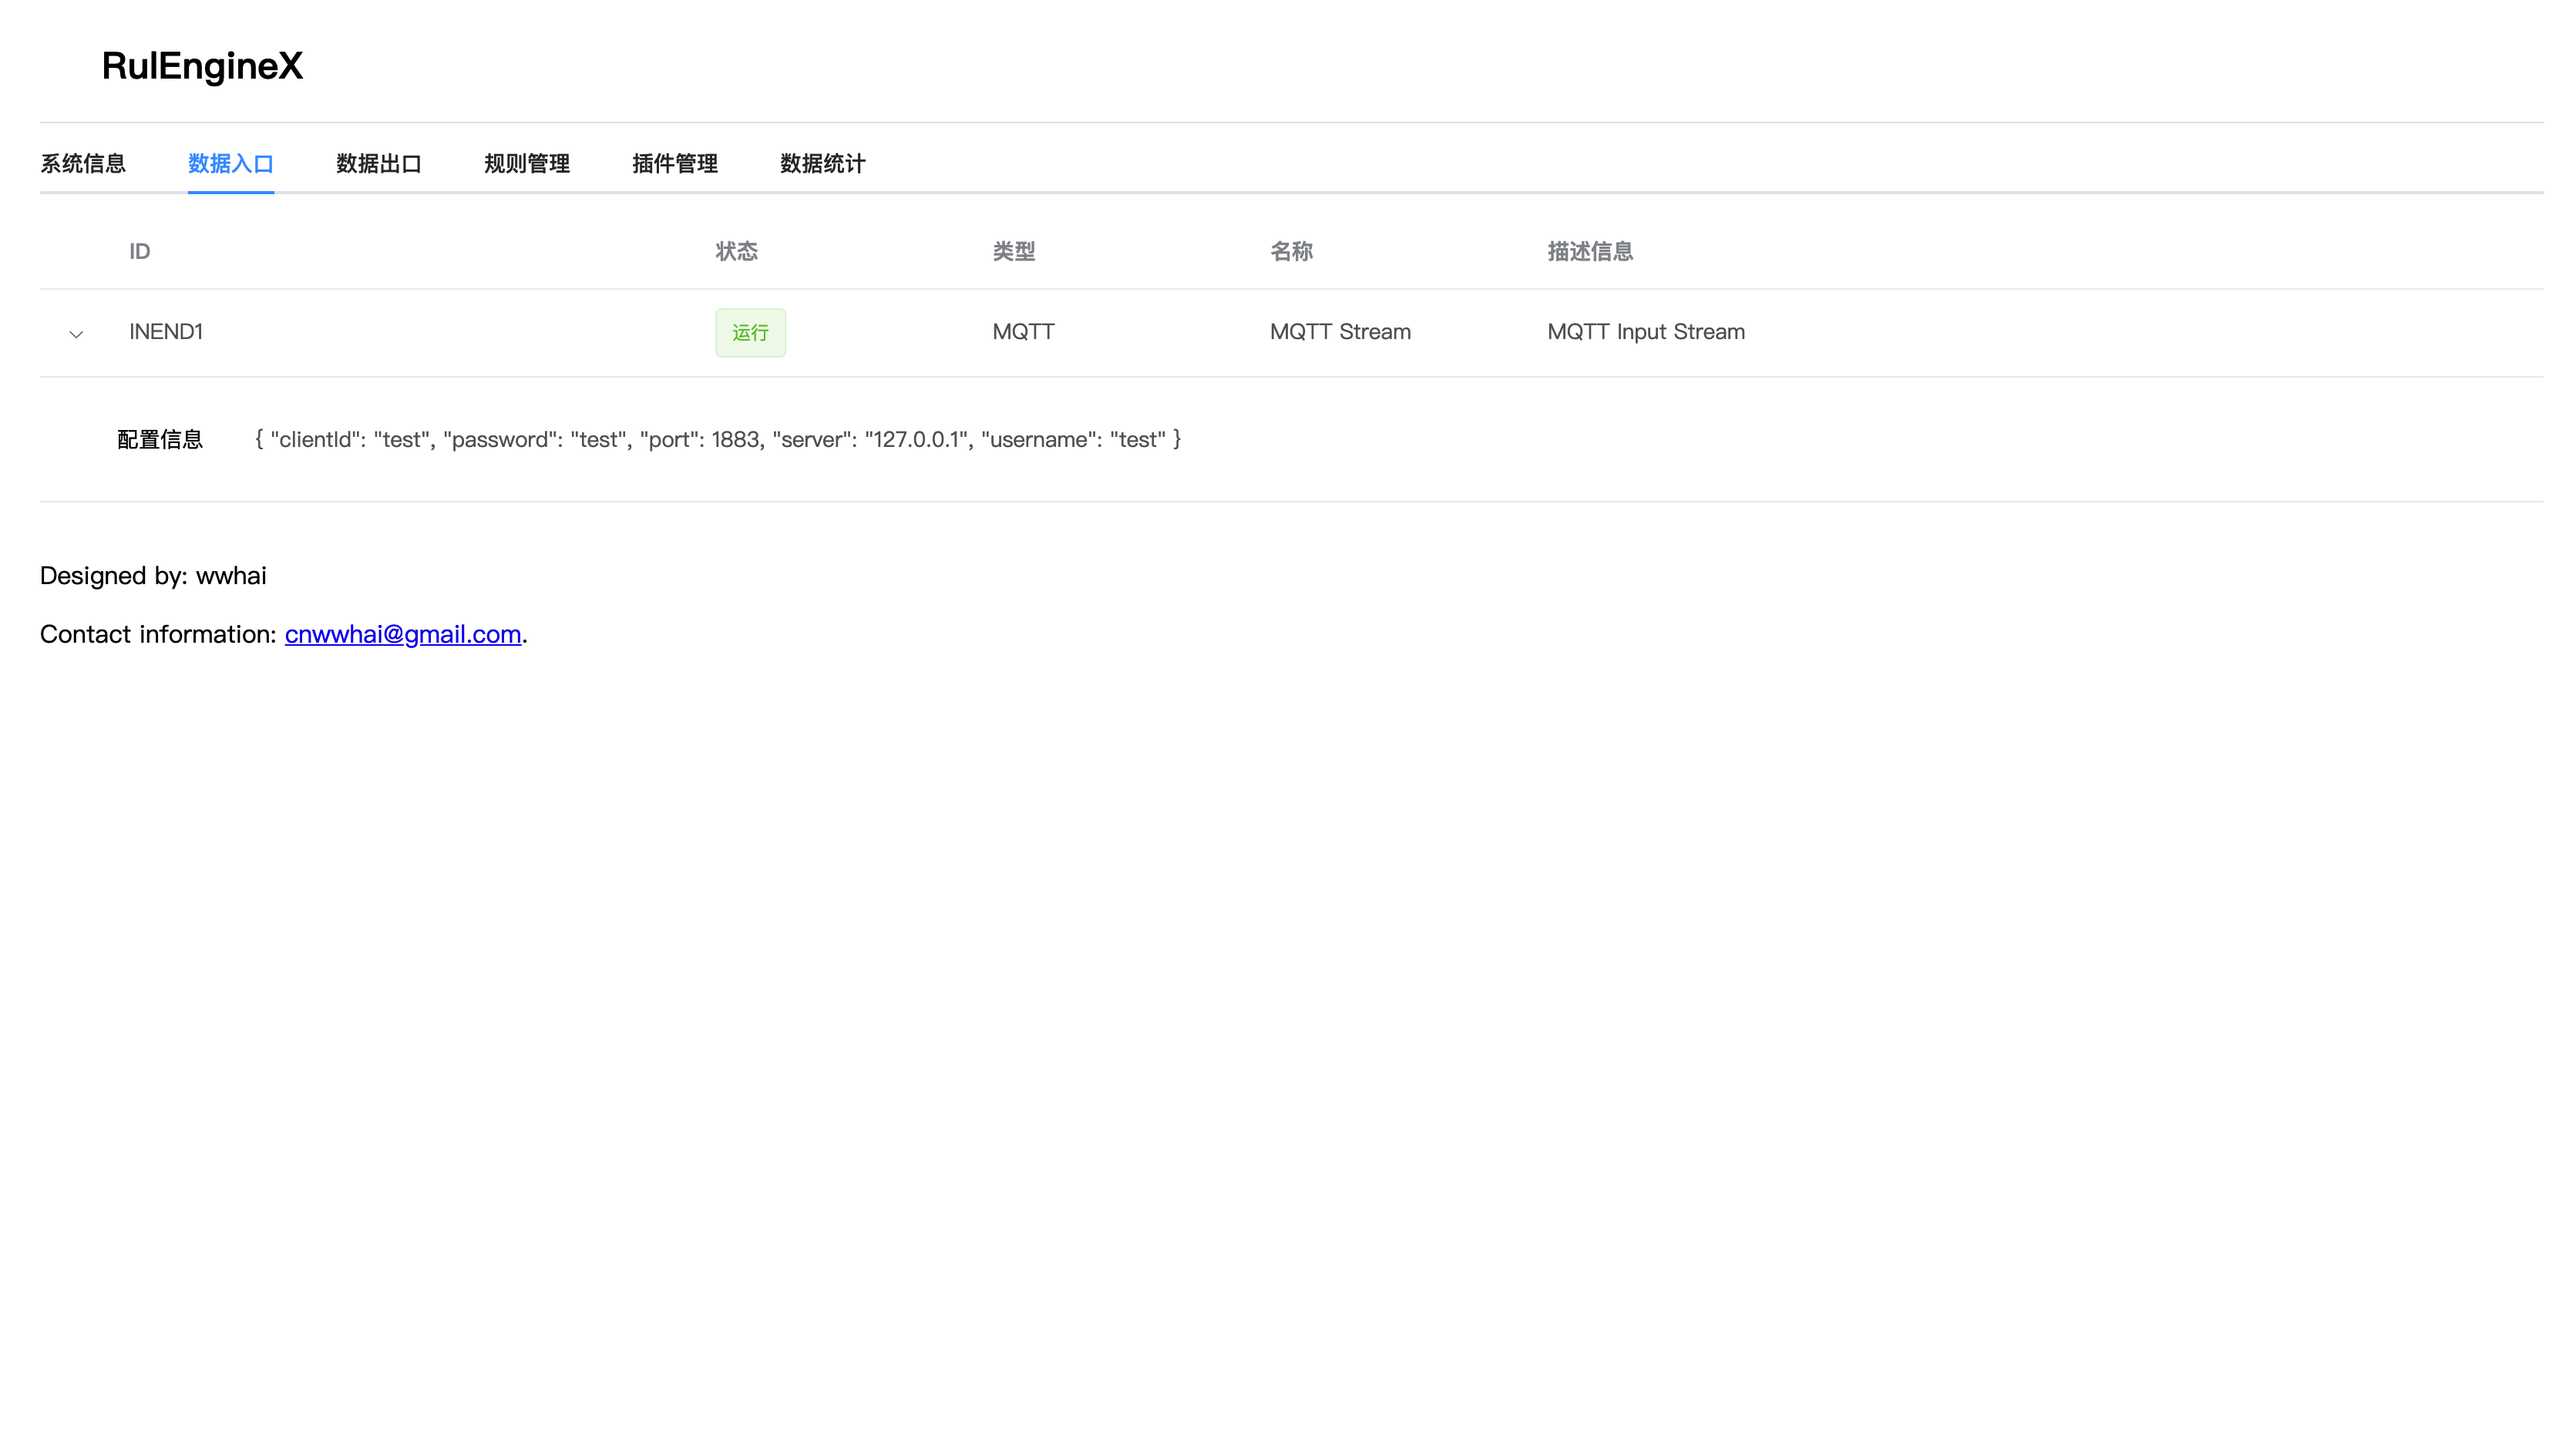
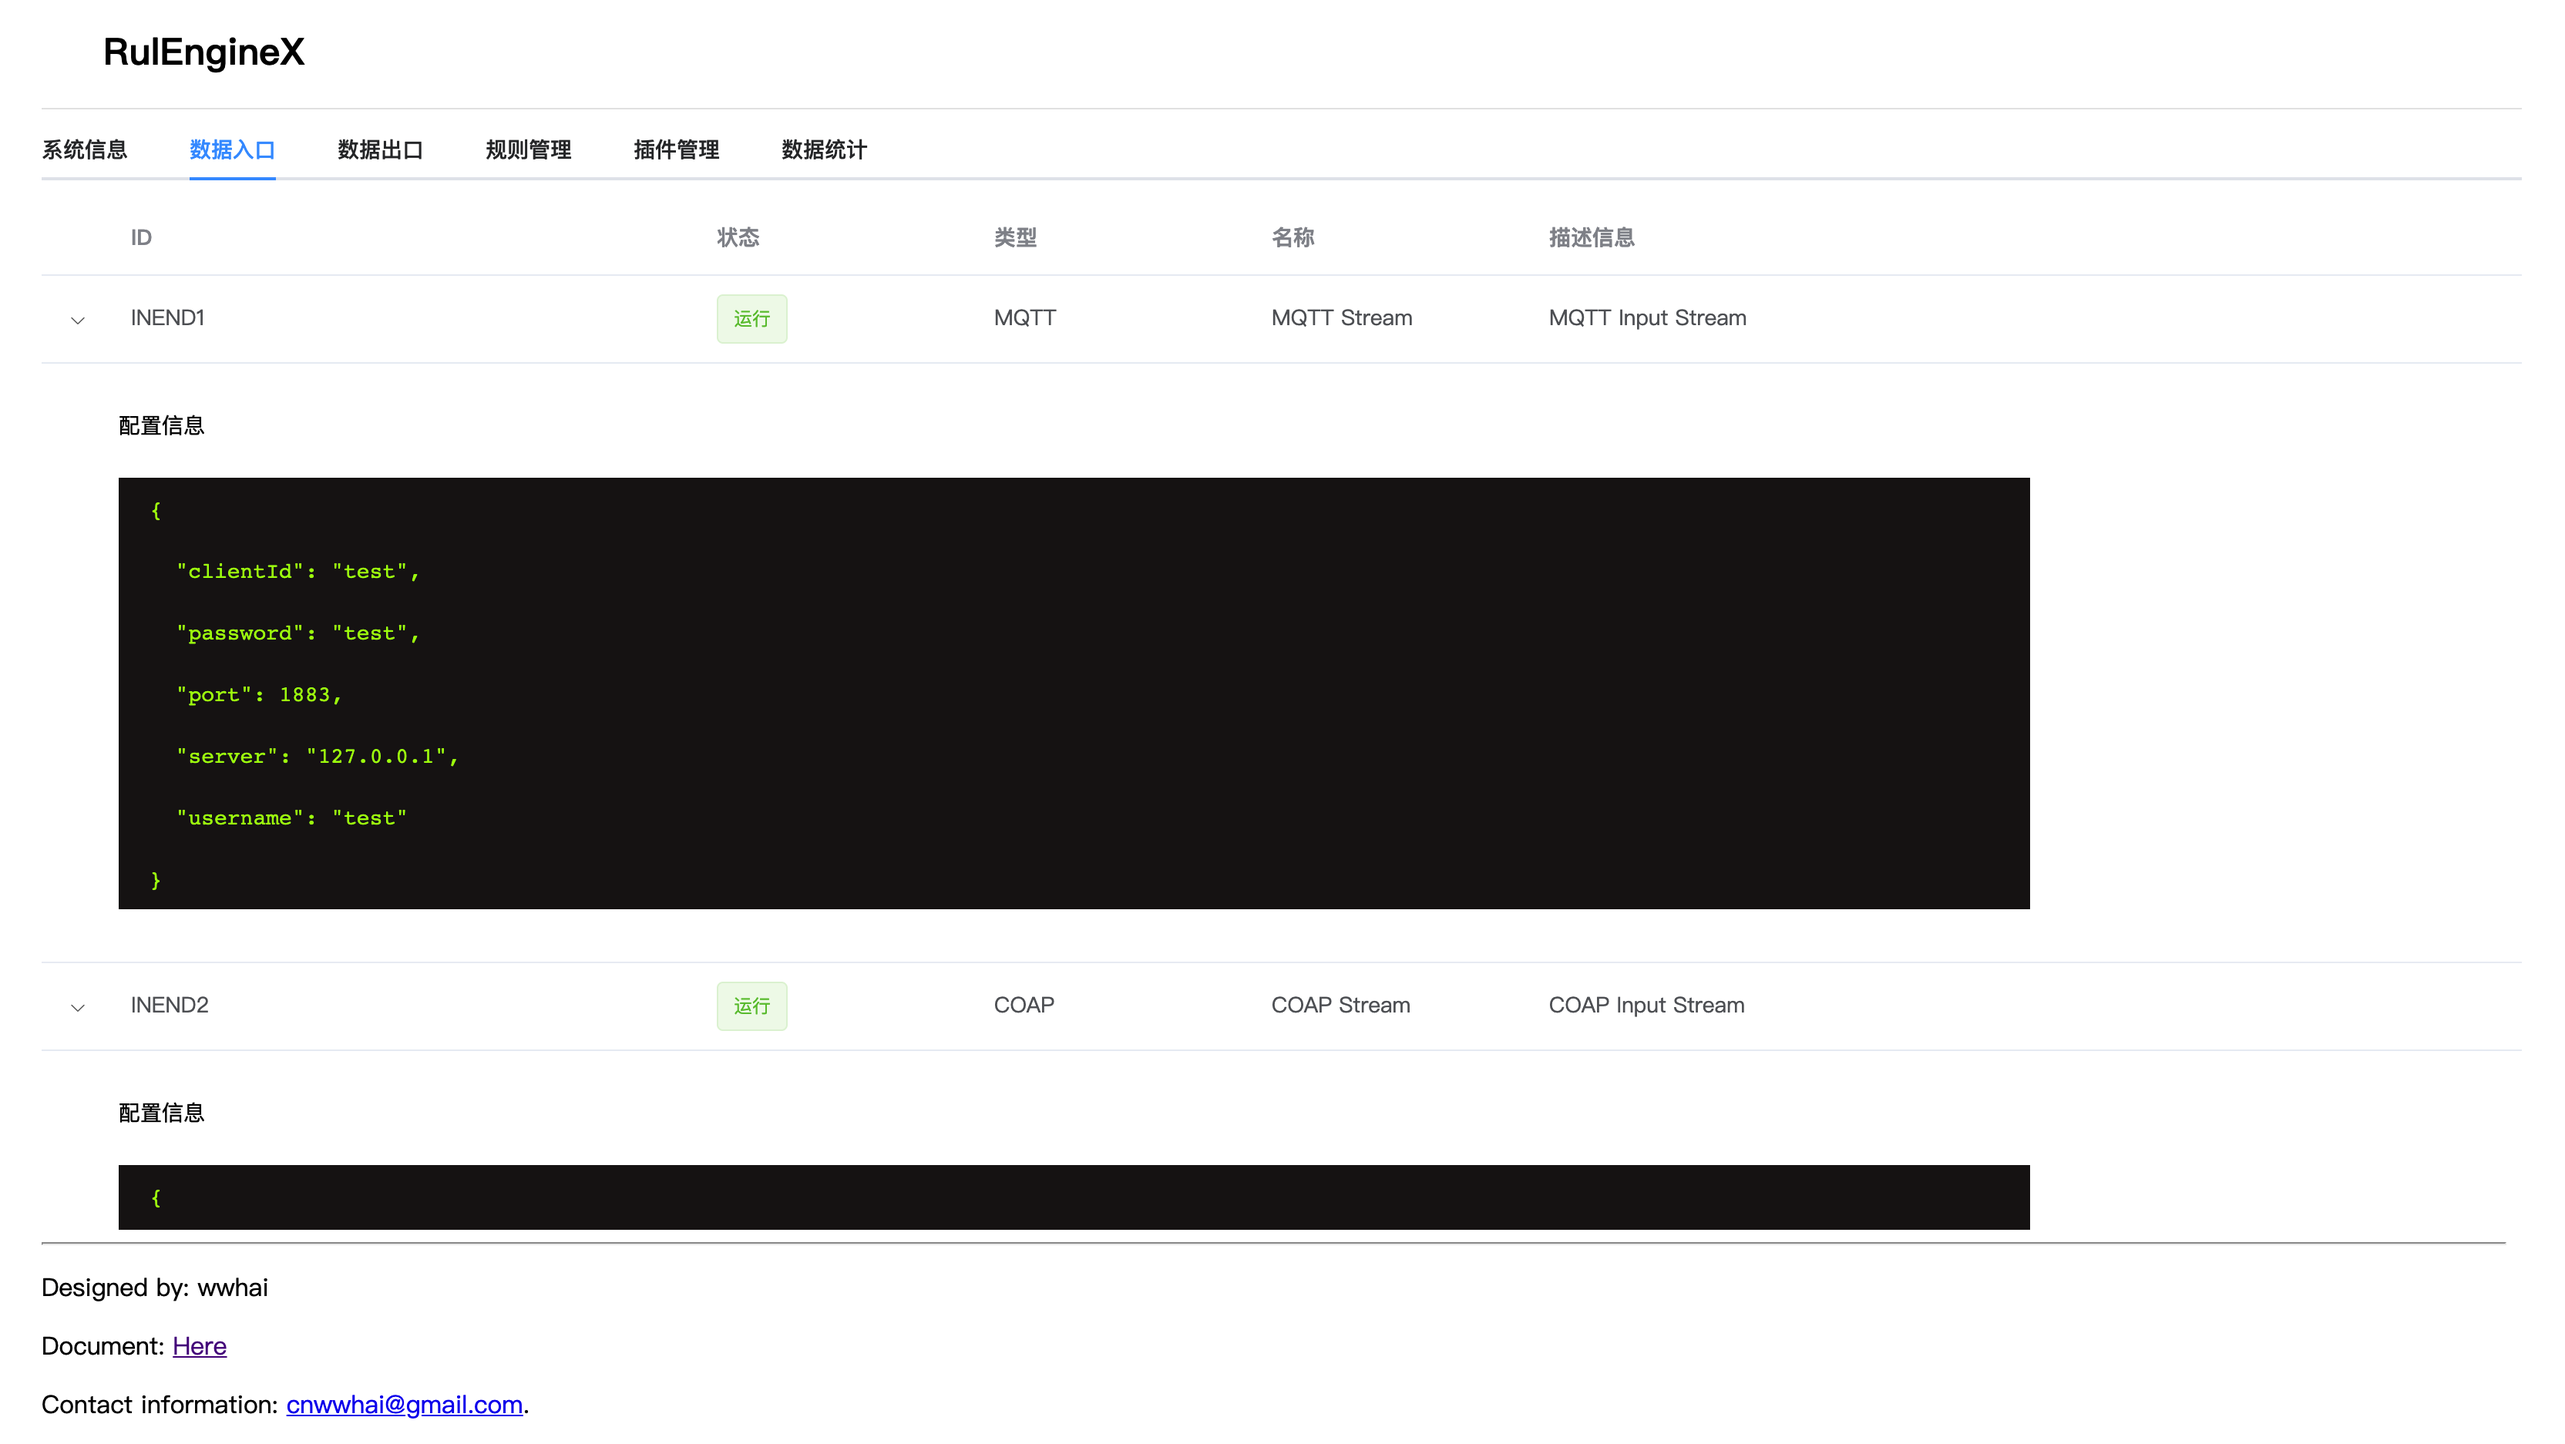
更新文档

diff --git a/source/docs/dev.md b/source/docs/dev.md
@@ -5,11 +5,122 @@ support: false
 
 # 开发指南
 ## 源码导读
+```
+-> % tree
+.
+├── Dockerfile
+├── Makefile
+├── clocs.md
+├── conf
+│   └── banner.txt
+├── go.mod
+├── go.sum
+├── main.go
+├── pic
+│   └── 1.png
+├── plugin
+│   ├── http_api_server.go
+│   └── templates
+│       └── dashboard.html
+├── ppt.md
+├── readme.md
+├── statistics
+│   └── statistic.go
+├── test
+│   ├── calllua_test.go
+│   ├── input_data_select_test.go
+│   ├── lua
+│   │   ├── callback.lua
+│   │   ├── data_to_mongo.lua
+│   │   ├── mix_test.lua
+│   │   └── sql_select.lua
+│   ├── publish.sh
+│   └── rulenginex_test.go
+└── x
+    ├── coap_resource.go
+    ├── dblib.go
+    ├── decodelib.go
+    ├── encodelib.go
+    ├── http_resource.go
+    ├── in_end.go
+    ├── interface.go
+    ├── jqlib.go
+    ├── kafka_target.go
+    ├── mongo_target.go
+    ├── mqtt_resource.go
+    ├── mysql_target.go
+    ├── out_end.go
+    ├── protobuf_resource.go
+    ├── rule.go
+    ├── rule_cache.go
+    ├── rulenginex.go
+    ├── utils.go
+    ├── xhook.go
+    ├── xpipline.go
+    └── xplugin.go
 
+```
 ## 插件开发
+插件接口
+
+```go
+
+type XPlugin interface {
+	Load(*RuleEngine) *XPluginEnv
+	Init(*XPluginEnv) error
+	Install(*XPluginEnv) (*XPluginMetaInfo, error)
+	Start(*RuleEngine, *XPluginEnv) error
+	Uninstall(*XPluginEnv) error
+	Clean()
+}
+
+```
 
 ## Hook开发
+Hook接口
+```go
+type XHook interface {
+	Work(inEndId string, data string) error
+}
+
+```
 
 ## InEnd开发
 
+<div style="text-align:center;">
+    <img style ="box-shadow: 10px 10px 10px rgba(0,0,0,.5);-moz-box-shadow: 10px 10px 10px rgba(0,0,0,.5);-webkit-box-shadow: 10px 10px 10px rgba(0,0,0,.5);" src="../images/p11.png" width = "1000" alt="IMG"/>
+</div>
+
+InEnd接口
+```go
+
+type inEnd struct {
+	Id          string                  `json:"id"`
+	State       TargetState             `json:"state"`
+	Type        string                  `json:"type"`
+	Name        string                  `json:"name"`
+	Description string                  `json:"description"`
+	Binds       *map[string]rule        `json:"-"`
+	Config      *map[string]interface{} `json:"config"`
+}
+
+```
+
 ## OutEnd开发
+OutEnd 接口
+<div style="text-align:center;">
+    <img style ="box-shadow: 10px 10px 10px rgba(0,0,0,.5);-moz-box-shadow: 10px 10px 10px rgba(0,0,0,.5);-webkit-box-shadow: 10px 10px 10px rgba(0,0,0,.5);" src="../images/p12.png" width = "1000" alt="IMG"/>
+</div>
+
+```go
+type outEnd struct {
+	Id          string                  `json:"id"`
+	Type        string                  `json:"type"`
+	State       TargetState             `json:"state"`
+	Name        string                  `json:"name"`
+	Description string                  `json:"description"`
+	Config      *map[string]interface{} `json:"config"`
+	Target      XTarget                 `json:"-"`
+}
+
+```

diff --git a/source/docs/restapi.md b/source/docs/restapi.md
@@ -1,0 +1,123 @@
+---
+title: HTTP API
+support: false
+---
+## RuleX 基础 HTTP API
+RuleX 本身是个框架，不包含 HTTP 接口，但是支持插件扩展，下面这些 HTTP API 就是通过 `HttpApiServer` 插件实现的。
+
+### 系统数据
+-  curl 127.0.0.1:2580/api/v1/system
+```json
+{
+  "arch": "amd64",
+  "cpuPercent": 3.8053649407883903,
+  "cpus": 16,
+  "diskInfo": 7.107930010513884,
+  "memInfo": 66.0473108291626,
+  "os": "darwin"
+}
+```
+### 统计数据
+- curl 127.0.0.1:2580/api/v1/statistic
+```json
+{
+  "statistics": {
+    "inFailed": 0,
+    "inSuccess": 0,
+    "outFailed": 0,
+    "outSuccess": 0
+  }
+}
+```
+### 数据入口
+- curl 127.0.0.1:2580/api/v1/inends
+
+```json
+{
+  "inends": {
+    "INEND1": {
+      "id": "INEND1",
+      "state": 1,
+      "type": "MQTT",
+      "name": "MQTT Stream",
+      "description": "MQTT Input Stream",
+      "config": {
+        "clientId": "test",
+        "password": "test",
+        "port": 1883,
+        "server": "127.0.0.1",
+        "username": "test"
+      }
+    },
+    "INEND2": {
+      "id": "INEND2",
+      "state": 1,
+      "type": "COAP",
+      "name": "COAP Stream",
+      "description": "COAP Input Stream",
+      "config": {
+        "port": 1883,
+        "server": "127.0.0.1"
+      }
+    }
+  }
+}
+```
+### 数据出口
+- curl 127.0.0.1:2580/api/v1/outends
+
+```json
+{
+  "outends": {
+    "MongoDB001": {
+      "id": "MongoDB001",
+      "type": "mongo",
+      "state": 1,
+      "name": "Data to mongodb",
+      "description": "Save data to mongodb",
+      "config": {
+        "mongourl": "mongodb+srv://rulenginex:rulenginex@cluster0.rsdmb.mongodb.net/test"
+      }
+    }
+  }
+}
+```
+### 规则列表
+- curl 127.0.0.1:2580/api/v1/rules
+```json
+{
+  "rules": {
+    "just_a_test_rule": {
+      "id": "just_a_test_rule",
+      "name": "just_a_test_rule",
+      "description": "just_a_test_rule",
+      "from": [
+        "INEND1"
+      ],
+      "actions": "\nlocal json = require(\"json\")\nActions = {\n\tfunction(data)\n\t    dataToMongo(\"MongoDB001\", data)\n\t    print(\"[LUA Actions Callback]:dataToMongo Mqtt payload:\", data)\n\t\treturn true, data\n\tend\n}\n",
+      "success": "\nfunction Success()\n  -- print(\"[LUA Callback] call success from lua\")\nend\n",
+      "failed": "\nfunction Failed(error)\n  -- print(\"[LUA Callback] call failed from lua:\", error)\nend\n"
+    }
+  }
+}
+```
+### 插件列表
+- curl 127.0.0.1:2580/api/v1/plugins
+
+```json
+{
+  "plugins": {
+    "HttpApiServer": {
+      "name": "HttpApiServer",
+      "version": "0.0.1",
+      "homepage": "www.ezlinker.cn",
+      "helpLink": "www.ezlinker.cn",
+      "author": "wwhai",
+      "email": "cnwwhai@gmail.com",
+      "license": "MIT"
+    }
+  }
+}
+```
+
+> 因为接口不是本规则引擎的核心功能，所以仅仅做了几个基础数据查看接口，后期随着版本迭代会逐步完善起来。

diff --git a/source/docs/example.md b/source/docs/example.md
@@ -8,10 +8,10 @@ support: false
 ## 利用树莓派实现温湿度监控
 ### 需求:
 网关为树莓派，接受来自传感器的数据，数据上传后要求以下规则进行处理：
-- 当温度大于50度时转发到 Kafka
-- 当湿度小于30的时候保存进MongoDb
-- 当二氧化炭浓度大于50而且湿度小于30的时候保存到Mysql
-- 当光照强度大于500的时候将其替换成0
+- 当温度大于 50 度时转发到 Kafka
+- 当湿度小于 30 的时候保存进 MongoDb
+- 当二氧化炭浓度大于30而且湿度小于 50 的时候保存到 Mysql
+- 当光照强度大于500的时候将其替换成 0,然后交给下一个回调
 
 其中数据结构如下:
 ```json
@@ -23,4 +23,58 @@ support: false
 }
 ```
 ### 编写规则
-....待完善
+```lua
+-- Success
+function Success()
+    print("success")
+end
+-- Failed
+function Failed(error)
+    print("failed:", error)
+end
+
+-- Actions
+Actions = {
+    function(data)
+        local V = Select(".[] | select(.temp > 50)", data)
+        if V ~=nil then
+            dataToKafka("kafka001", V)
+        end
+        return true, data
+    end,
+    function(data)
+        local V = Select(".[] | select(.hum < 30)", data)
+        if V ~=nil then
+            dataToMongo("mongo001", V)
+        end
+        return true, data
+    end,
+    function(data)
+        local V = Select(".[] | select(.lex > 500)", data)
+        if V ~=nil then
+            dataToMysql("mysql001", V)
+        end
+        return true, data
+    end,
+    function(data)
+        local V = Select(".[] | select(.co2 > 30) | select(.co2 < 50)", data)
+        if V ~=nil then
+            data["co2"] = 0
+        end
+        return true, data
+    end,
+    function(data)
+        --
+        return false, data
+    end
+}
+
+```
+> 可能大家对这种语法会感到困惑：`Select(".[] | select(.temp > 50)", data)`， 目前数据筛选使用的是 JQ，请大家事先学习一下 JQ 的筛选语法规则:https://stedolan.github.io/jq/manual
+
+#### 主要用到的筛选函数
+
+<div style="text-align:center;">
+    <img style ="box-shadow: 10px 10px 10px rgba(0,0,0,.5);-moz-box-shadow: 10px 10px 10px rgba(0,0,0,.5);-webkit-box-shadow: 10px 10px 10px rgba(0,0,0,.5);"
+    src="../images/JQ.png" width = "1000" alt="IMG"/>
+</div>

diff --git a/README.md b/README.md
@@ -1,1 +1,9 @@
-# 这里是规则引擎 RuleX的文档
+# 这里是规则引擎 RuleX 的文档源码
+## 编写文档
+在source\docs下新建文档即可
+## 发布文档
+```
+hexo clean
+hexo d
+```
+> 部署地址：https://github.com/wwhai/rulex_doc_html.git
